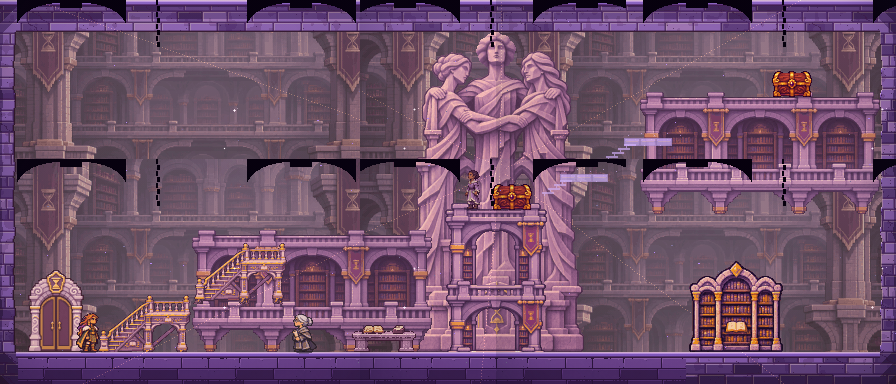
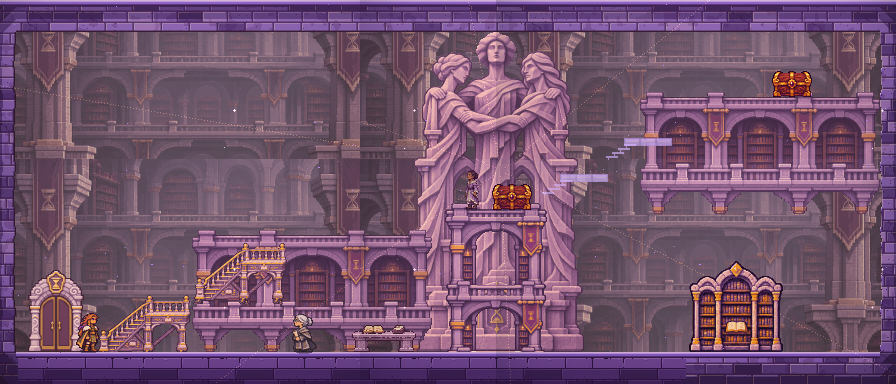
review: limpa sobreposicoes do foreground nos Arquivos

diff --git a/revisao-arquivos/r3/README.md b/revisao-arquivos/r3/README.md
@@ -3,3 +3,5 @@
 Mapa compacto56×24, com2módulos horizontais e1vertical diante da estátua. Escadas originais inteiras recoloridas levam ao primeiro horizontal; NPC e primeiro baú no topo do vertical central. O segundo baú fica no horizontal superior direito e só é alcançado pelas duas plataformas invisíveis de Percepção. A estante antiga completa96×128, levemente recolorida, fica isolada abaixo dele como porta falsa.
 
 Sete saltos verificados com updatePlayer/moveY reais. Doze tentativas máximas de salto sem Percepção não alcançaram o módulo alto; ambos os hplat ficaram sem colisão. Prints com Percepção ativa para mostrar os apoios. Sem run completa. Não houve publicação da demo nem aprovação autoral desta composição.
+
+Foreground antigo removido somente dos Arquivos para não atravessar os módulos; Santuário preservado.
